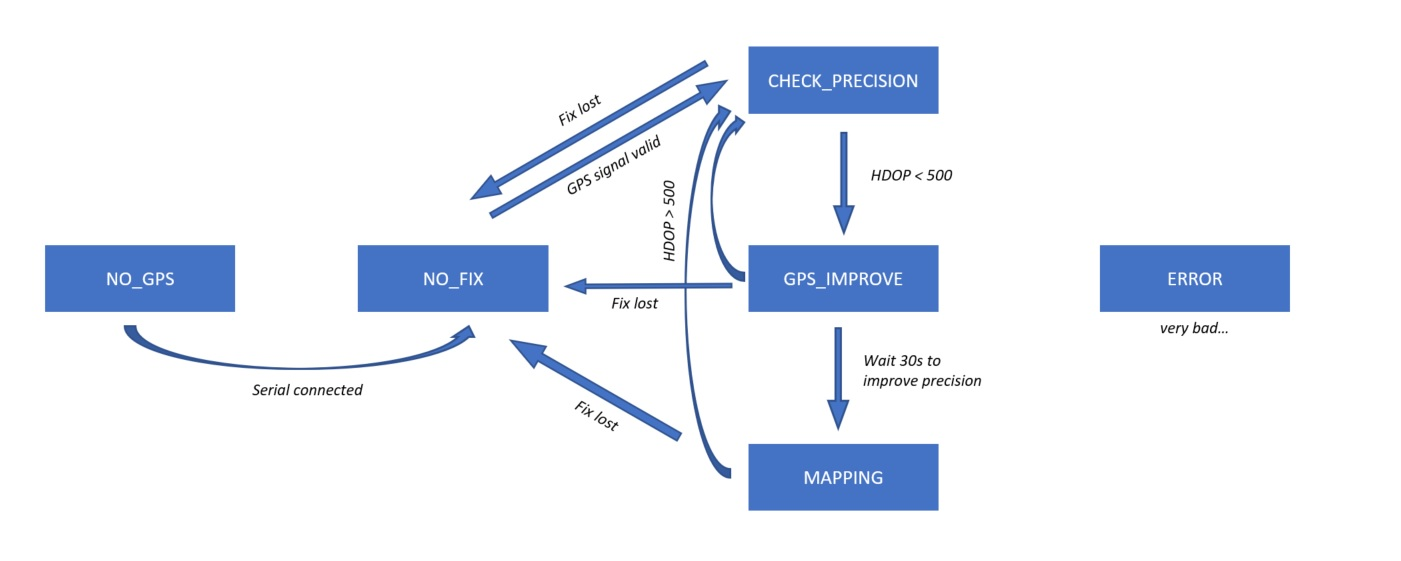
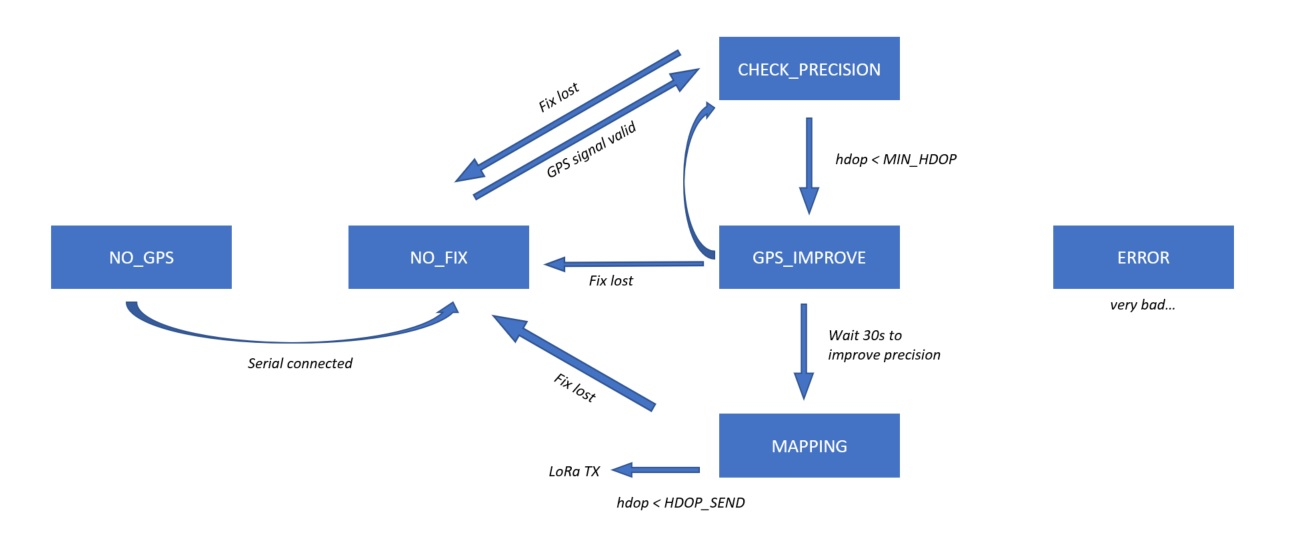
state machine improvement & updated doc

Changed region(s): [[0.031, 0.0612, 0.743, 0.9173], [0.774, 0.3975, 0.9598, 0.6115]]

diff --git a/lpnmapper/gmx_lr.cpp b/lpnmapper/gmx_lr.cpp
@@ -311,11 +311,11 @@ byte gmxLR_isNetworkJoined(void)
 // Lora Network
 
 //modified by Micha Burger 09.03.2018
-byte gmxLR_setSF(String sf){
+byte gmxLR_setSF(String sf, String& ret){
   
   _sendCmd( "AT+DR="+sf+"\r" );
 
-  return(_parseResponse(dummyResponse));    
+  return(_parseResponse(ret));    
 
 }
 

diff --git a/lpnmapper/gmx_lr.h b/lpnmapper/gmx_lr.h
@@ -121,7 +121,7 @@ byte gmxLR_getMessageConfirmation(void);
  * Lower level LoRaWAN Functions
  */ 
 
-byte gmxLR_setSF(String sf);
+byte gmxLR_setSF(String sf, String& ret);
 
 byte gmxLR_getADR();
 byte gmxLR_setADR(String on_off);

diff --git a/README.md b/README.md
@@ -33,7 +33,7 @@ The inner state machine is described above. The following states can be taken:
 * NO_FIX: No valid GPS coordinates, there is no GPS reception.
 * CHECK_PRECISION: GPS Fix is available, but only with few satellites and bad precision. In this state we wait for the HDOP to drop below 500.
 * GPS_IMPROVE: Because in the first 30s after the GPS fix, the precision of the GPS is not optimal yet, we wait 30s in this state before starting the mapping.
-* MAPPING: The GPS signal and the signal from the HT sensor is registered and sent with LoRaWAN in the pre-defined time interval.
+* MAPPING: The GPS signal and the signal from the HT sensor is registered and sent with LoRaWAN in the pre-defined time interval, if the HDOP value is acceptable (HDOP_SEND = 500).
   
 ### Track numbers  
 The track number is sent in the payload and stored together with the point in the server. It is later used to filter the points according to the experiment or store them in a different part of the database.
@@ -41,7 +41,8 @@ The track number is sent in the payload and stored together with the point in th
 * Track 1: ESP data collection (test, some values missing)
 * Track 2: Static hum & temp measures
 * Tracks 3-12: Static trilateration (10 different fixed points)
-* Track 20: ESP data collection (latest version)
+* Track 20: ESP/RSSI data collection SF12 (latest version) 
+* Track 30: ESP/RSSI data collection line of sight with gateway (SF12)
 * Track 99: Test, to be discarded by the server  
   
 <img src="img/screen.jpg" alt="Screen UI" width="500" />
